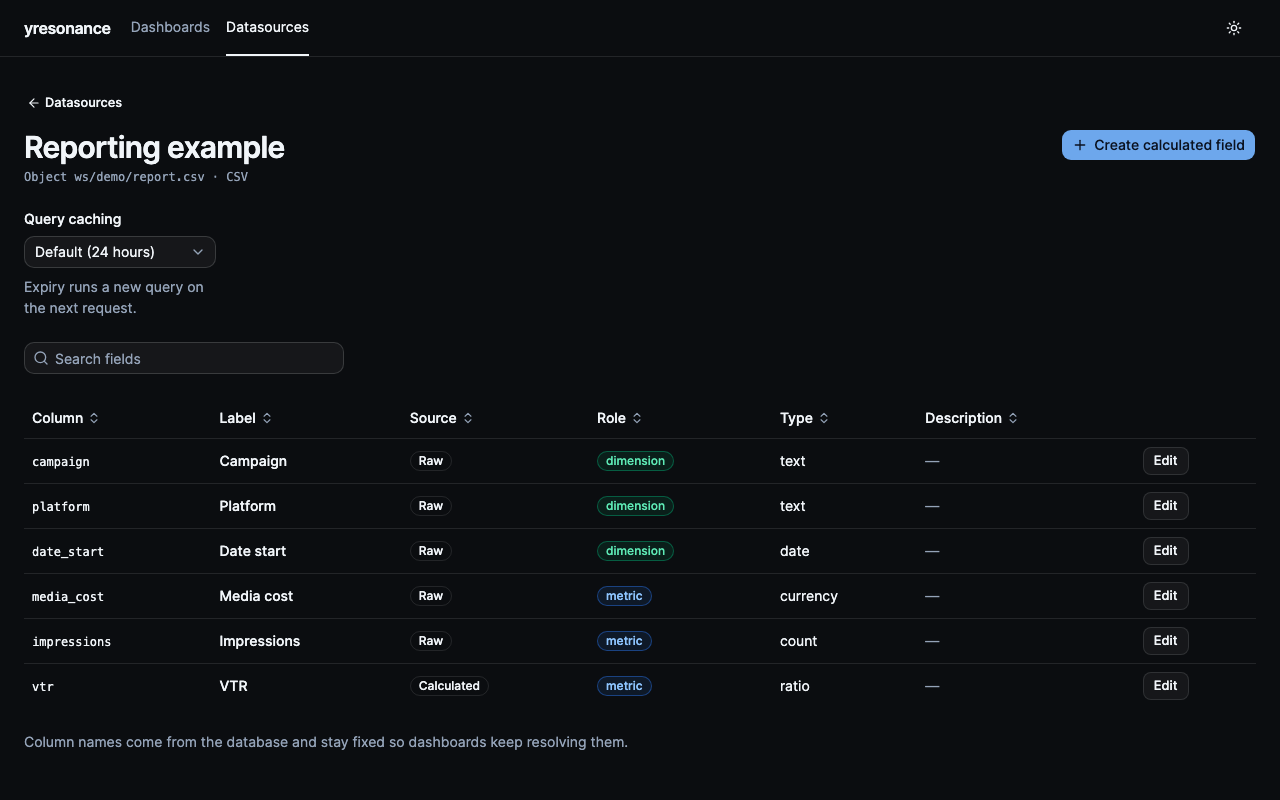
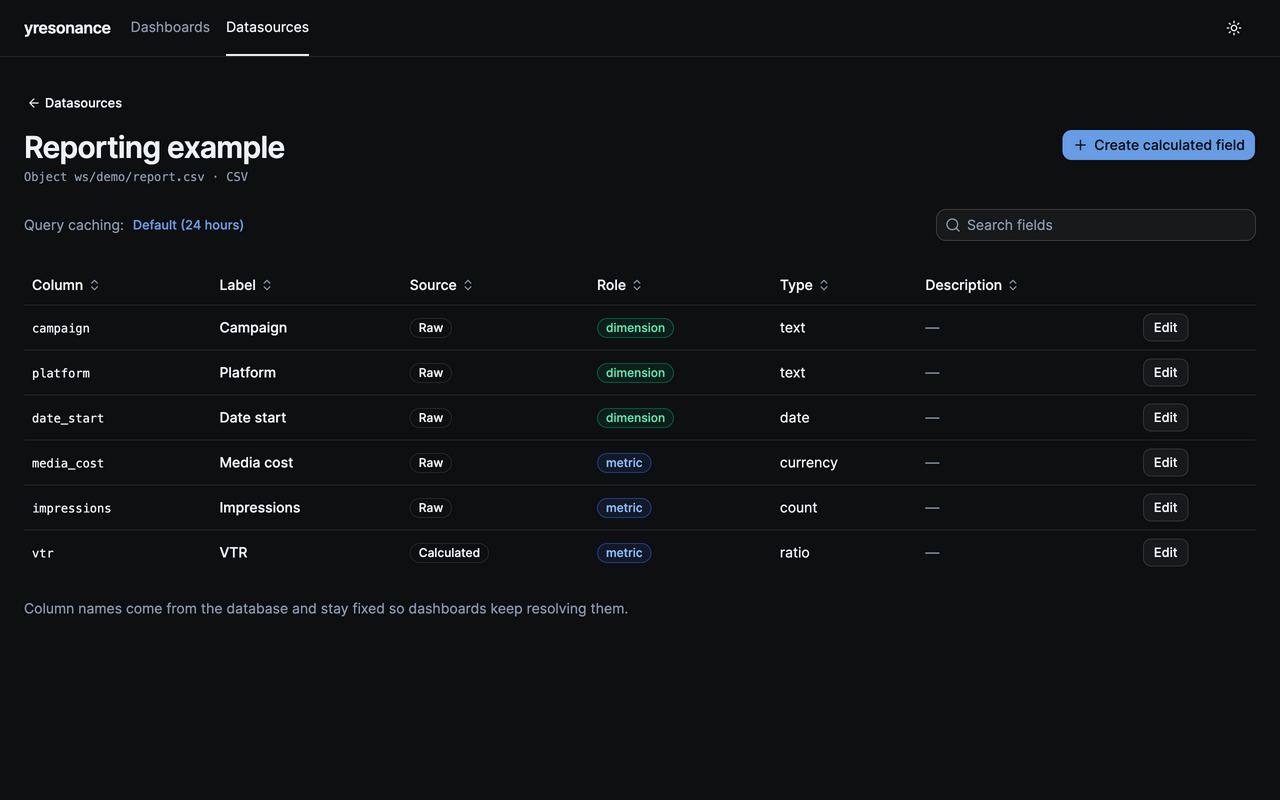
feat: show datasource caching in a compact top bar
Show the saved cache policy as a clickable value beside field search.
Open the existing settings in a popover and discard edits on dismissal.
Refresh datasource screenshots for review.

Validation: bun run check passes with 325 unit tests. All eight focused
UI checks pass on desktop and mobile; dismissal coverage also passes.

Related to #79.

AI-Assisted: true
AI-Agent: codex
AI-Model: openai/gpt-6.1-sol

diff --git a/src/components/datasource-cache-settings.tsx b/src/components/datasource-cache-settings.tsx
@@ -3,6 +3,7 @@ import { callApi } from '#/api/client';
 import type { DatasourceCachePolicy } from '#/domain/schema';
 import { DatasourceCacheFields } from './datasource-cache-fields';
 import { Button } from './ui/button';
+import { Popover, PopoverContent, PopoverTitle, PopoverTrigger } from './ui/popover';
 
 export function DatasourceCacheSettings({
   dataSourceId,
@@ -15,19 +16,32 @@ export function DatasourceCacheSettings({
   onSaved: () => Promise<void>;
   defaultTtlSeconds: number;
 }) {
+  const [open, setOpen] = useState(false);
   const [policy, setPolicy] = useState(initialPolicy);
   const [busy, setBusy] = useState(false);
   const [error, setError] = useState<string>();
   const [savedPolicy, setSavedPolicy] = useState(initialPolicy);
   const changed = JSON.stringify(policy) !== JSON.stringify(savedPolicy);
+  const lifetime = savedPolicy.mode === 'duration' ? savedPolicy.ttlSeconds : defaultTtlSeconds;
+  const unit = lifetime % 3600 === 0 ? 'hour' : lifetime % 60 === 0 ? 'minute' : 'second';
+  const amount = lifetime / (unit === 'hour' ? 3600 : unit === 'minute' ? 60 : 1);
+  const durationLabel = `${amount} ${unit}${amount === 1 ? '' : 's'}`;
+  const label =
+    savedPolicy.mode === 'disabled'
+      ? 'Disabled'
+      : savedPolicy.mode === 'default'
+        ? `Default (${durationLabel})`
+        : durationLabel;
   async function save(event: FormEvent) {
     event.preventDefault();
+    if (busy) return;
     setBusy(true);
     setError(undefined);
     try {
       await callApi({ action: 'updateDatasource', dataSourceId, cachePolicy: policy });
       setSavedPolicy(policy);
       await onSaved();
+      setOpen(false);
     } catch (caught) {
       setError(caught instanceof Error ? caught.message : String(caught));
     } finally {
@@ -35,23 +49,46 @@ export function DatasourceCacheSettings({
     }
   }
   return (
-    <form onSubmit={save} className="flex flex-col items-start gap-3">
-      <DatasourceCacheFields
-        policy={policy}
-        onChange={setPolicy}
-        disabled={busy}
-        defaultTtlSeconds={defaultTtlSeconds}
-      />
-      {changed || error ? (
-        <Button type="submit" size="sm" disabled={busy}>
-          {busy ? 'Saving…' : 'Save caching'}
-        </Button>
-      ) : null}
-      {error ? (
-        <p role="alert" className="text-sm text-destructive">
-          {error}
-        </p>
-      ) : null}
-    </form>
+    <div className="flex items-center gap-1 text-sm">
+      <span className="text-muted-foreground">Query caching:</span>
+      <Popover
+        open={open}
+        onOpenChange={(nextOpen) => {
+          if (busy) return;
+          setPolicy(savedPolicy);
+          setError(undefined);
+          setOpen(nextOpen);
+        }}
+      >
+        <PopoverTrigger
+          render={<Button variant="link" size="sm" className="h-auto px-1 py-1" />}
+          aria-label={`Query caching: ${label}`}
+        >
+          {label}
+        </PopoverTrigger>
+        <PopoverContent align="start" className="w-72 max-w-[calc(100vw-2rem)] p-4">
+          <PopoverTitle>Query caching</PopoverTitle>
+          <form onSubmit={save} className="flex flex-col items-start gap-3">
+            <DatasourceCacheFields
+              key={String(open)}
+              policy={policy}
+              onChange={setPolicy}
+              disabled={busy}
+              defaultTtlSeconds={defaultTtlSeconds}
+            />
+            {changed || error ? (
+              <Button type="submit" size="sm" disabled={busy}>
+                {busy ? 'Saving…' : 'Save caching'}
+              </Button>
+            ) : null}
+            {error ? (
+              <p role="alert" className="text-sm text-destructive">
+                {error}
+              </p>
+            ) : null}
+          </form>
+        </PopoverContent>
+      </Popover>
+    </div>
   );
 }

diff --git a/src/routes/datasources.$datasourceId.tsx b/src/routes/datasources.$datasourceId.tsx
@@ -186,7 +186,13 @@ function DatasourceContent() {
       ) : (
         <div className="flex flex-col gap-6">
           <div>
-            <Button variant="ghost" size="sm" className="-ml-2" render={<Link to="/datasources" />}>
+            <Button
+              nativeButton={false}
+              variant="ghost"
+              size="sm"
+              className="-ml-2"
+              render={<Link to="/datasources" />}
+            >
               <ArrowLeftIcon />
               Datasources
             </Button>
@@ -207,24 +213,30 @@ function DatasourceContent() {
               ) : null}
             </div>
           </div>
-          <DatasourceCacheSettings
-            key={`${datasourceId}:${JSON.stringify(description.cachePolicy)}`}
-            dataSourceId={datasourceId}
-            defaultTtlSeconds={
-              description.location.kind === 'clickhouse' &&
-              description.location.ownership === 'external'
-                ? description.location.cacheTtlSeconds
-                : 86_400
-            }
-            initialPolicy={description.cachePolicy ?? { mode: 'default' }}
-            onSaved={refresh}
-          />
-          <DataTableSearch
-            value={search}
-            onChange={setSearch}
-            label="Search fields"
-            placeholder="Search fields"
-          />
+          <div
+            role="toolbar"
+            aria-label="Datasource settings"
+            className="flex flex-wrap items-center justify-between gap-4"
+          >
+            <DatasourceCacheSettings
+              key={`${datasourceId}:${JSON.stringify(description.cachePolicy)}`}
+              dataSourceId={datasourceId}
+              defaultTtlSeconds={
+                description.location.kind === 'clickhouse' &&
+                description.location.ownership === 'external'
+                  ? description.location.cacheTtlSeconds
+                  : 86_400
+              }
+              initialPolicy={description.cachePolicy ?? { mode: 'default' }}
+              onSaved={refresh}
+            />
+            <DataTableSearch
+              value={search}
+              onChange={setSearch}
+              label="Search fields"
+              placeholder="Search fields"
+            />
+          </div>
           <DataTable
             table={table}
             sortLabel="Sort fields by"

diff --git a/tests/e2e/datasource-caching.spec.ts b/tests/e2e/datasource-caching.spec.ts
@@ -5,19 +5,29 @@ import { mockYresonanceApi } from './support/yresonance-api';
 test('datasource caching can be saved, reloaded, customized, and disabled', async ({ page }) => {
   await mockYresonanceApi(page, { isAdmin: false });
   await page.goto('/datasources/src_reporting');
-  await expect(page.getByLabel('Query caching')).toHaveValue('default');
-  await page.getByLabel('Query caching').selectOption('duration');
+  const settings = page.getByRole('dialog', { name: 'Query caching', exact: true });
+  const mode = settings.getByLabel('Query caching', { exact: true });
+  await page.getByRole('button', { name: 'Query caching: Default (24 hours)' }).click();
+  await expect(mode).toHaveValue('default');
+  await mode.selectOption('duration');
   await page.getByLabel('Reuse query results for').selectOption('custom');
   await page.getByLabel('Minutes', { exact: true }).fill('7');
   await page.getByRole('button', { name: 'Save caching' }).click();
   await expect(page.getByRole('button', { name: 'Save caching' })).toBeHidden();
   await page.reload();
+  await page.getByRole('button', { name: 'Query caching: 7 minutes' }).click();
   await expect(page.getByLabel('Minutes', { exact: true })).toHaveValue('7');
-  await page.getByLabel('Query caching').selectOption('disabled');
+  await mode.selectOption('disabled');
   await page.getByRole('button', { name: 'Save caching' }).click();
   await expect(page.getByRole('button', { name: 'Save caching' })).toBeHidden();
   await page.reload();
-  await expect(page.getByLabel('Query caching')).toHaveValue('disabled');
+  await page.getByRole('button', { name: 'Query caching: Disabled' }).click();
+  await expect(mode).toHaveValue('disabled');
+  await mode.selectOption('duration');
+  await page.keyboard.press('Escape');
+  await expect(settings).toBeHidden();
+  await page.getByRole('button', { name: 'Query caching: Disabled' }).click();
+  await expect(mode).toHaveValue('disabled');
 });
 
 for (const role of ['editor', 'viewer', 'shared'] as const) {
